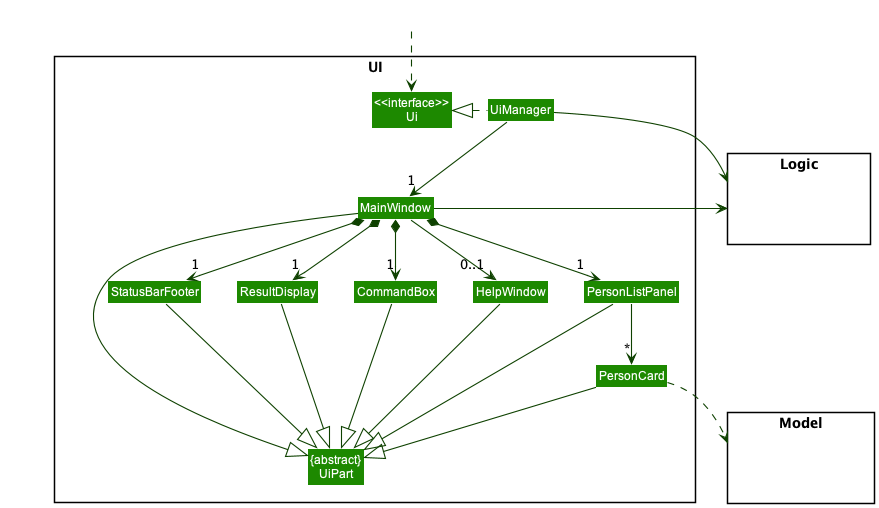
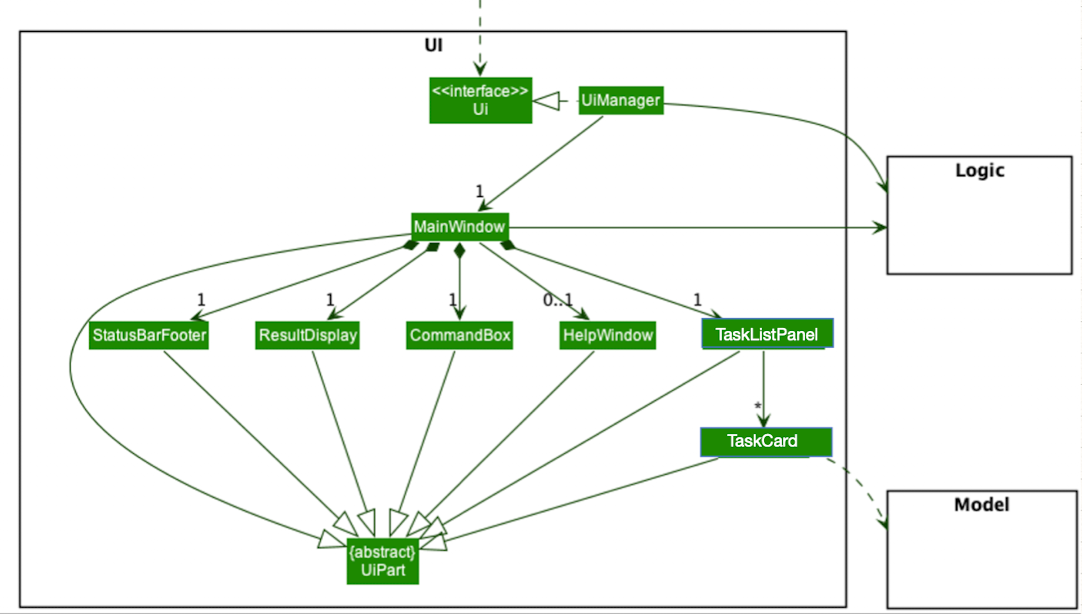
Updated images and DG

diff --git a/src/main/java/seedu/address/ui/MainWindow.java b/src/main/java/seedu/address/ui/MainWindow.java
@@ -23,7 +23,7 @@ import seedu.address.logic.parser.exceptions.ParseException;
  */
 public class MainWindow extends UiPart<Stage> {
 
-    private static final String FXML = "NotNUSMainWindow.fxml";
+    private static final String FXML = "NotionUSMainWindow.fxml";
 
     private final Logger logger = LogsCenter.getLogger(getClass());
 

diff --git a/docs/DeveloperGuide.md b/docs/DeveloperGuide.md
@@ -23,7 +23,7 @@ Refer to the guide [_Setting up and getting started_](SettingUp.md).
 
 <div markdown="span" class="alert alert-primary">
 
-:bulb: **Tip:** The `.puml` files used to create diagrams in this document can be found in the [diagrams](https://github.com/se-edu/addressbook-level3/tree/master/docs/diagrams/) folder. Refer to the [_PlantUML Tutorial_ at se-edu/guides](https://se-education.org/guides/tutorials/plantUml.html) to learn how to create and edit diagrams.
+:bulb: **Tip:** The `.puml` files used to create diagrams in this document can be found in the [diagrams](https://github.com/AY2223S1-CS2103T-F12-3/tp/tree/master/docs/diagrams/) folder. Refer to the [_PlantUML Tutorial_ at se-edu/guides](https://se-education.org/guides/tutorials/plantUml.html) to learn how to create and edit diagrams.
 </div>
 
 ### Architecture
@@ -36,7 +36,7 @@ Given below is a quick overview of main components and how they interact with ea
 
 **Main components of the architecture**
 
-**`Main`** has two classes called [`Main`](https://github.com/se-edu/addressbook-level3/tree/master/src/main/java/seedu/address/Main.java) and [`MainApp`](https://github.com/se-edu/addressbook-level3/tree/master/src/main/java/seedu/address/MainApp.java). It is responsible for,
+**`Main`** has two classes called [`Main`](https://github.com/AY2223S1-CS2103T-F12-3/tp/tree/master/src/main/java/seedu/address/Main.java) and [`MainApp`](https://github.com/AY2223S1-CS2103T-F12-3/tp/tree/master/src/main/java/seedu/address/MainApp.java). It is responsible for,
 * At app launch: Initializes the components in the correct sequence, and connects them up with each other.
 * At shut down: Shuts down the components and invokes cleanup methods where necessary.
 
@@ -69,24 +69,27 @@ The sections below give more details of each component.
 
 ### UI component
 
-The **API** of this component is specified in [`Ui.java`](https://github.com/se-edu/addressbook-level3/tree/master/src/main/java/seedu/address/ui/Ui.java)
+The **API** of this component is specified in [`Ui.java`](https://github.com/AY2223S1-CS2103T-F12-3/tp/tree/master/src/main/java/seedu/address/ui/Ui.java)
 
 ![Structure of the UI Component](images/UiClassDiagram.png)
 
-The UI consists of a `MainWindow` that is made up of parts e.g.`CommandBox`, `ResultDisplay`, `PersonListPanel`, `StatusBarFooter` etc. All these, including the `MainWindow`, inherit from the abstract `UiPart` class which captures the commonalities between classes that represent parts of the visible GUI.
+The UI consists of a `MainWindow` that is made up of parts e.g.`CommandBox`, `ResultDisplay`, `TaskListPanel`, `StatusBarFooter` etc. All these, including the `MainWindow`, inherit from the abstract `UiPart` class which captures the commonalities between classes that represent parts of the visible GUI.
 
-The `UI` component uses the JavaFx UI framework. The layout of these UI parts are defined in matching `.fxml` files that are in the `src/main/resources/view` folder. For example, the layout of the [`MainWindow`](https://github.com/se-edu/addressbook-level3/tree/master/src/main/java/seedu/address/ui/MainWindow.java) is specified in [`MainWindow.fxml`](https://github.com/se-edu/addressbook-level3/tree/master/src/main/resources/view/MainWindow.fxml)
+The `UI` component uses the JavaFx UI framework. The layout of these UI parts are defined in matching `.fxml` files that are in the `src/main/resources/view` folder, except for `MainWindow`. The layout of the [`MainWindow`](https://github.com/AY2223S1-CS2103T-F12-3/tp/tree/master/src/main/java/seedu/address/ui/MainWindow.java) is specified in [`NotionUSMainWindow.fxml`](https://github.com/AY2223S1-CS2103T-F12-3/tp/tree/master/src/main/resources/view/NotionUSMainWindow.fxml).
+An FXML variable declared in the Java Class must correspond to the fxml component with the same fx id.
+
+The layout of `TaskCard` has been edited to fit the look of a task in Notion, especially the behaviour of task cards when resizing the main window. The CSS of the app is specified in [`NotionUS.css`](https://github.com/AY2223S1-CS2103T-F12-3/tp/tree/master/src/main/resources/view/NotionUS.css).
 
 The `UI` component,
 
 * executes user commands using the `Logic` component.
-* listens for changes to `Model` data so that the UI can be updated with the modified data.
+* listens for changes to `Model` data so that the UI can be updated with the modified task data.
 * keeps a reference to the `Logic` component, because the `UI` relies on the `Logic` to execute commands.
-* depends on some classes in the `Model` component, as it displays `Person` object residing in the `Model`.
+* depends on some classes in the `Model` component, as it displays `Task` object residing in the `Model`.
 
 ### Logic component
 
-**API** : [`Logic.java`](https://github.com/se-edu/addressbook-level3/tree/master/src/main/java/seedu/address/logic/Logic.java)
+**API** : [`Logic.java`](https://github.com/AY2223S1-CS2103T-F12-3/tp/tree/master/src/main/java/seedu/address/logic/Logic.java)
 
 Here's a (partial) class diagram of the `Logic` component:
 
